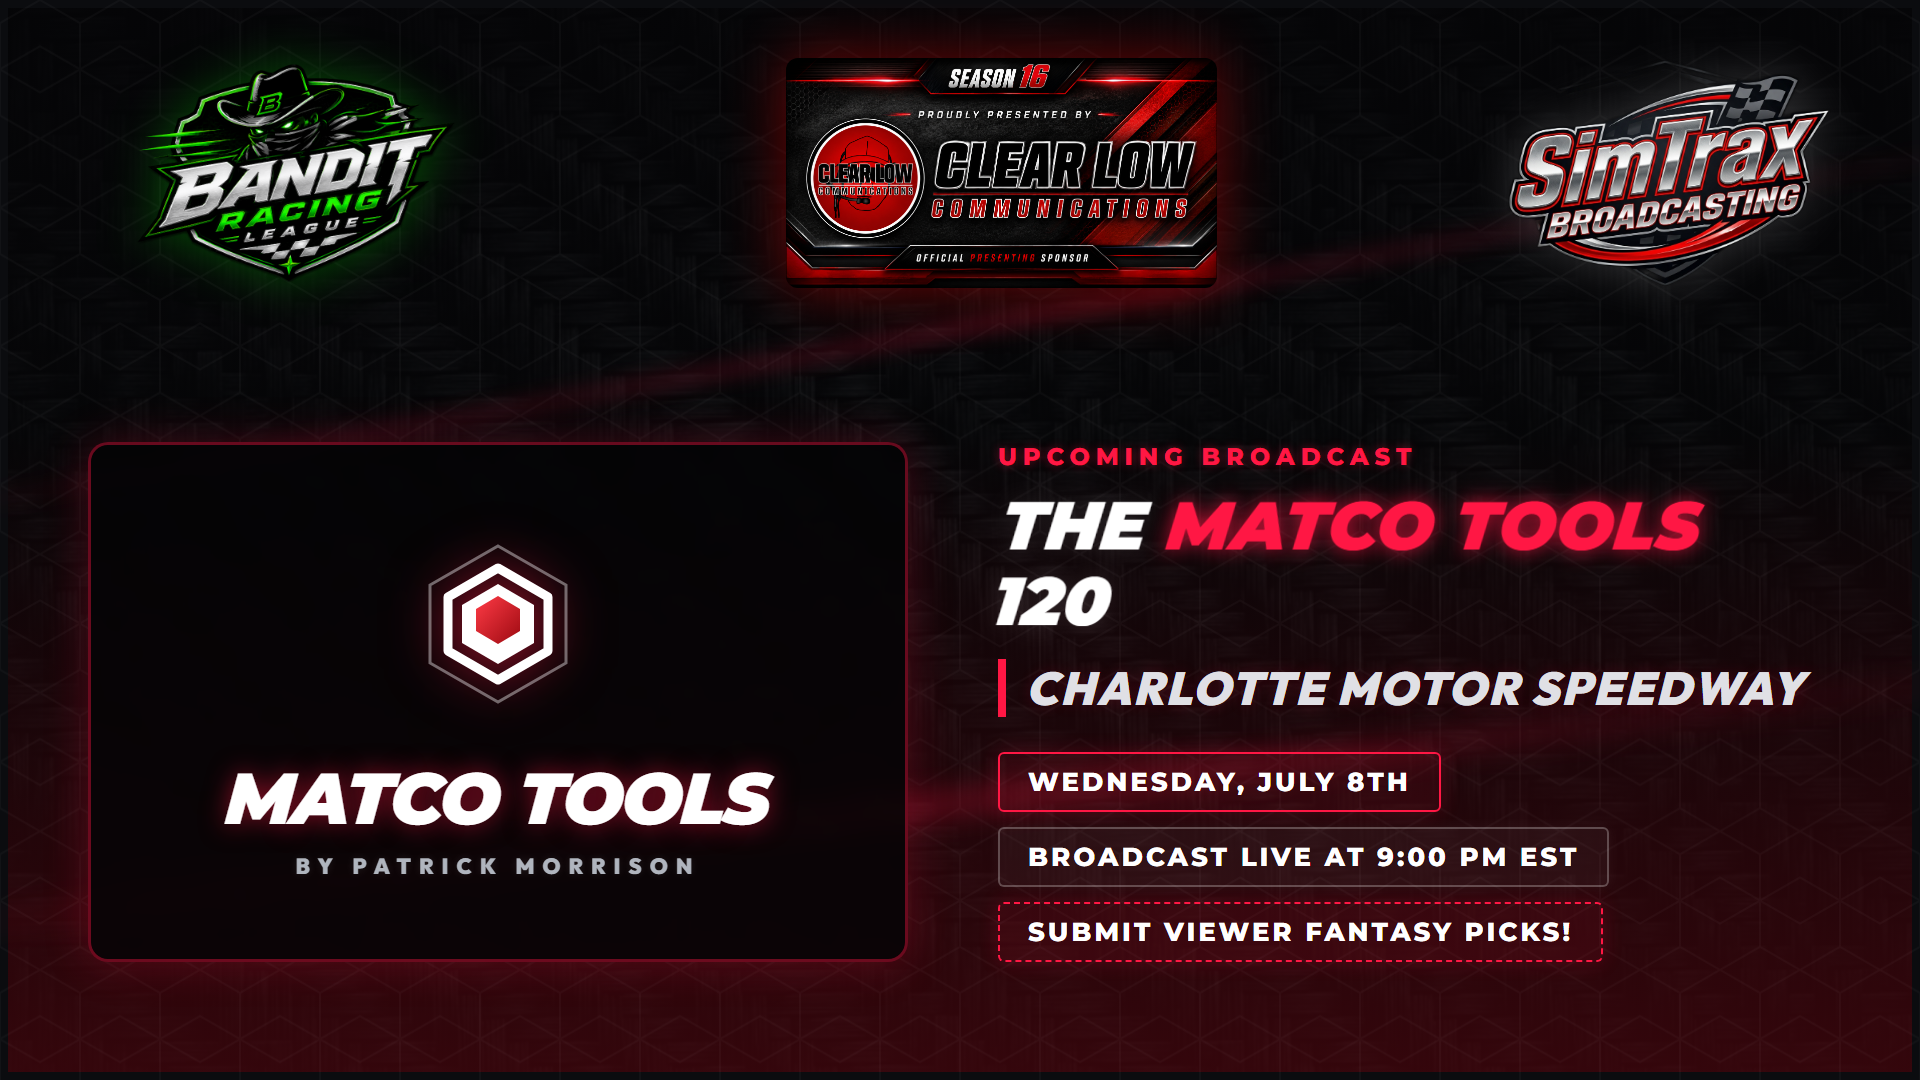
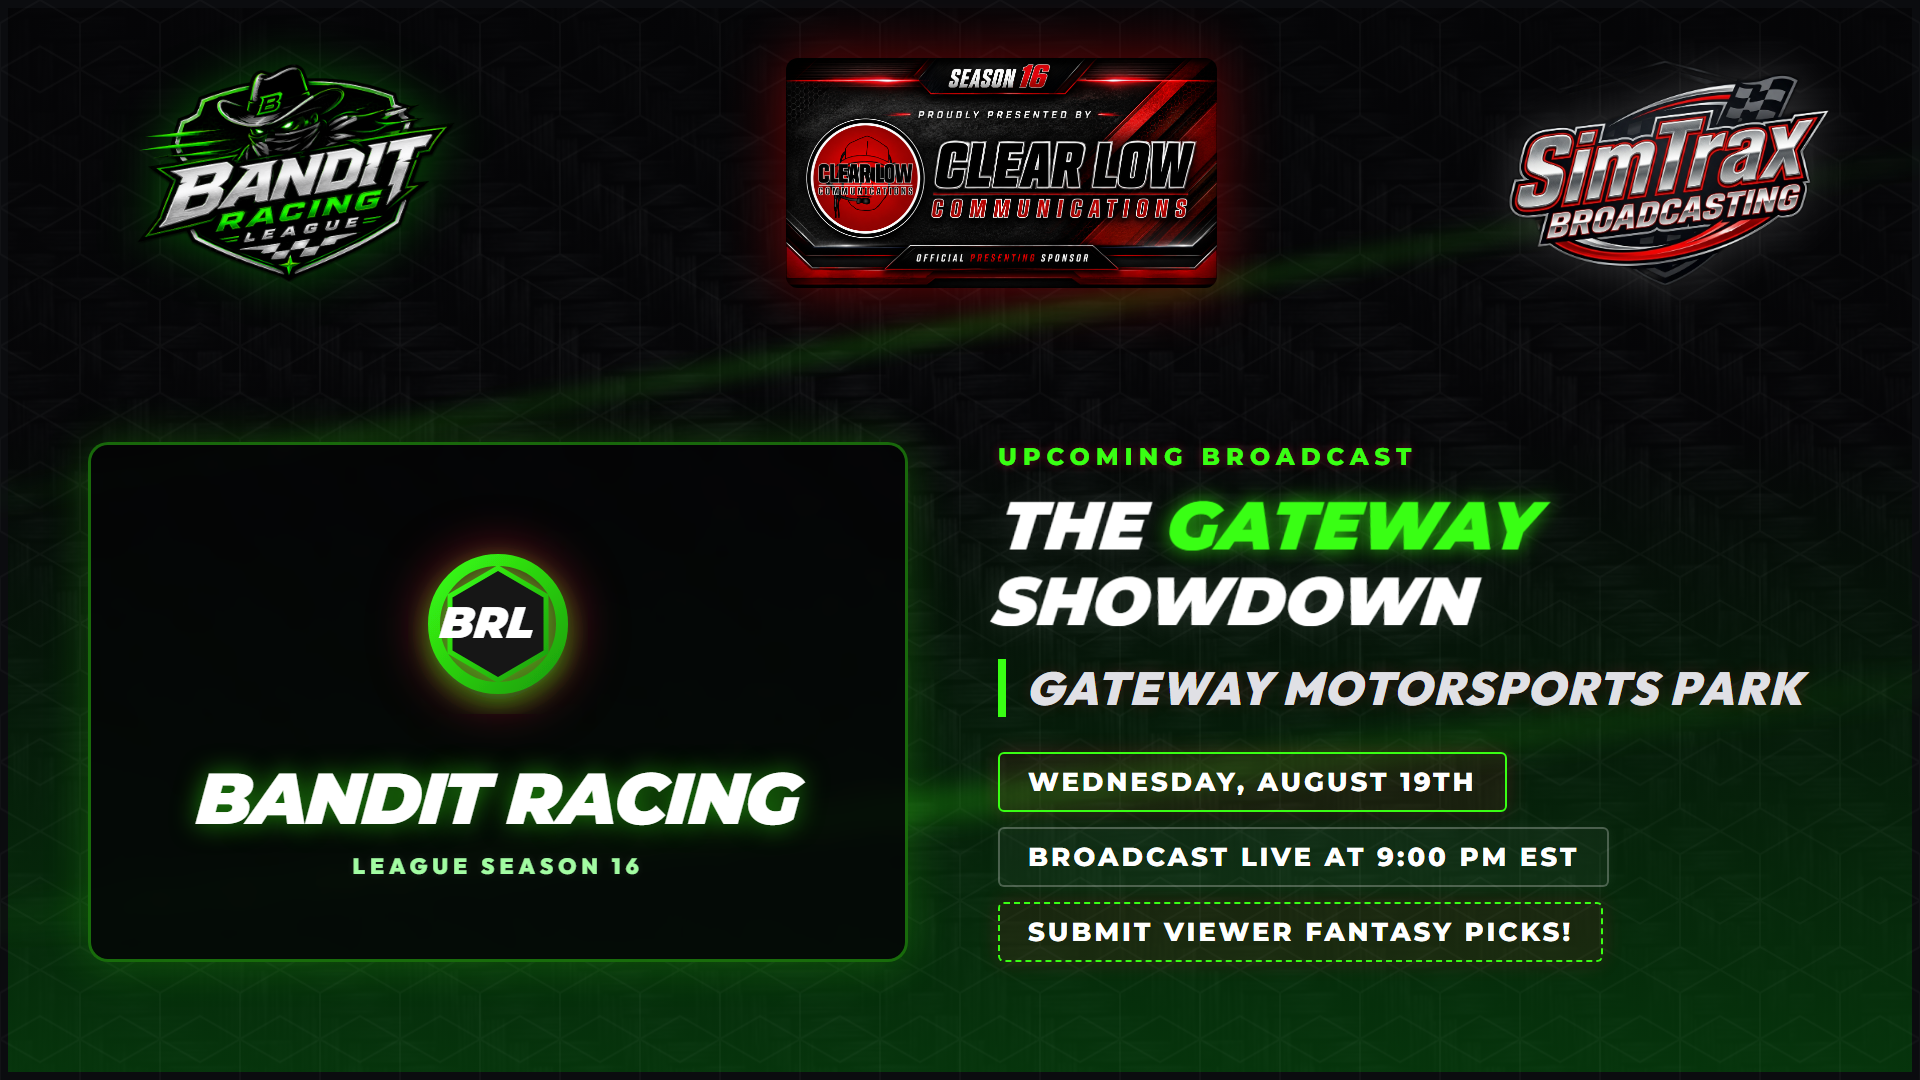
Update upcoming race preview to Gateway (August 19) with points after Michigan, and note Michigan as closest margin of victory in league history

diff --git a/upcoming_broadcast_promo.html b/upcoming_broadcast_promo.html
@@ -9,8 +9,8 @@
   <style>
     :root {
       --bg-dark: #050507;
-      --neon-red: #ff1744;
-      --glow-red: rgba(255, 23, 68, 0.7);
+      --neon-red: #39ff14;
+      --glow-red: rgba(57, 255, 20, 0.7);
       --card-bg: rgba(4, 4, 5, 0.82);
     }
 
@@ -46,7 +46,7 @@
       width: 1920px;
       height: 1080px;
       background-image: 
-        linear-gradient(to bottom, rgba(5, 5, 7, 0.96) 0%, rgba(6, 6, 8, 0.88) 40%, rgba(55, 6, 12, 0.94) 100%), 
+        linear-gradient(to bottom, rgba(5, 5, 7, 0.96) 0%, rgba(6, 6, 8, 0.88) 40%, rgba(6, 55, 12, 0.94) 100%), 
         url('assets/carbon_fiber_texture.png');
       background-size: cover;
       background-position: center;
@@ -137,8 +137,8 @@
     /* Left Side: Matco Tools Sponsor Card (Larger layout) */
     .sponsor-card {
       background: var(--card-bg);
-      border: 3.5px solid rgba(255, 23, 68, 0.4);
-      box-shadow: 0 0 45px rgba(255, 23, 68, 0.22);
+      border: 3.5px solid rgba(57, 255, 20, 0.4);
+      box-shadow: 0 0 45px rgba(57, 255, 20, 0.22);
       border-radius: 20px;
       padding: 40px;
       display: flex;
@@ -298,46 +298,37 @@
 
     <!-- Bottom Section: Race Sponsor and Information -->
     <div class="bottom-section">
-      <!-- Left: Matco Tools Sponsor Card -->
+      <!-- Left: Bandit Racing League Card -->
       <div class="sponsor-card">
-        <!-- Scaled High-fidelity SVG of the Matco Tools Hexagon Symbol -->
+        <!-- Scaled High-fidelity SVG of the BRL Checkered Flag / Shield Symbol -->
         <svg class="matco-logo-svg" viewBox="0 0 100 100" width="200" height="200" xmlns="http://www.w3.org/2000/svg">
           <defs>
-            <linearGradient id="redGradLarge" x1="0%" y1="0%" x2="100%" y2="100%">
-              <stop offset="0%" stop-color="#ff3b46" />
-              <stop offset="100%" stop-color="#9d0a11" />
+            <linearGradient id="neonGreenGrad" x1="0%" y1="0%" x2="100%" y2="100%">
+              <stop offset="0%" stop-color="#39ff14" />
+              <stop offset="100%" stop-color="#1b9d0a" />
             </linearGradient>
-            <filter id="shadowLarge" x="-25%" y="-25%" width="150%" height="150%">
-              <drop-shadow dx="0" dy="8" stdDeviation="8" flood-color="#ff1744" flood-opacity="0.5"/>
+            <filter id="neonGlow" x="-20%" y="-20%" width="140%" height="140%">
+              <feDropShadow dx="0" dy="4" stdDeviation="6" flood-color="#39ff14" flood-opacity="0.6"/>
             </filter>
           </defs>
-          <!-- Outer hexagon polygon (pointed top/bottom, flat sides) -->
-          <polygon points="50,4 91,27.5 91,72.5 50,96 9,72.5 9,27.5" fill="url(#redGradLarge)" stroke="#ffffff" stroke-width="2.5" filter="url(#shadowLarge)" />
-          
-          <!-- Inner hexagon border -->
-          <polygon points="50,11 84,30.5 84,69.5 50,89 16,69.5 16,30.5" fill="none" stroke="rgba(255,255,255,0.4)" stroke-width="1.5" />
-          
-          <!-- Stylized Hex Socket Inner Emblem -->
-          <polygon points="50,22 75,36.5 75,63.5 50,78 25,63.5 25,36.5" fill="none" stroke="#ffffff" stroke-width="4.5" stroke-linecap="round" stroke-linejoin="round" />
-          
-          <!-- Core hexagon shape -->
-          <polygon points="50,30 68,40.5 68,59.5 50,70 32,59.5 32,40.5" fill="#ffffff" />
-          
-          <!-- Accent red center notch -->
-          <polygon points="50,36 61,42.5 61,53.5 50,60 39,53.5 39,42.5" fill="url(#redGradLarge)" />
+          <g filter="url(#neonGlow)">
+            <circle cx="50" cy="50" r="32" fill="none" stroke="url(#neonGreenGrad)" stroke-width="6" />
+            <polygon points="50,22 74,36 74,64 50,78 26,64 26,36" fill="#141416" stroke="url(#neonGreenGrad)" stroke-width="2.5" />
+            <text x="50" y="57" font-family="'Montserrat', sans-serif" font-weight="900" font-style="italic" font-size="22" fill="#ffffff" text-anchor="middle" transform="skewX(-6)">BRL</text>
+          </g>
         </svg>
-        <div class="matco-text">MATCO TOOLS</div>
-        <div class="distributor-text">BY PATRICK MORRISON</div>
+        <div class="matco-text" style="color: #ffffff; text-shadow: 0 0 25px rgba(57, 255, 20, 0.5);">BANDIT RACING</div>
+        <div class="distributor-text" style="color: #a2fca2; letter-spacing: 5px;">LEAGUE SEASON 16</div>
       </div>
 
       <!-- Right: Race Details and Live Air Info -->
       <div class="details-card">
         <div class="upcoming-label">UPCOMING BROADCAST</div>
         <div class="race-title">
-          THE <span class="highlight">MATCO TOOLS</span> 120
+          THE <span class="highlight">Gateway</span> Showdown
         </div>
-        <div class="track-name">Charlotte Motor Speedway</div>
-        <div class="info-badge">Wednesday, July 8th</div>
+        <div class="track-name">Gateway Motorsports Park</div>
+        <div class="info-badge">Wednesday, August 19th</div>
         <div class="time-badge">Broadcast Live at 9:00 PM EST</div>
         <div class="fantasy-badge">Submit Viewer Fantasy Picks!</div>
       </div>

diff --git a/article_michigan_recap.html b/article_michigan_recap.html
@@ -160,10 +160,10 @@
     <section class="container">
         <div class="article-content neon-border">
             <div class="highlight-box">
-                <p><strong>Race Update:</strong> Benjamin Lacy executed a perfect drafting game plan at Michigan, holding off GFR teammate Nick Nickerson by a historic 0.0002 seconds (0.2 milliseconds) to capture the checkered flag. Dylan McDonald finished 3rd for Legacy Racing.</p>
+                <p><strong>Race Update:</strong> Benjamin Lacy executed a perfect drafting game plan at Michigan, holding off GFR teammate Nick Nickerson by a historic 0.0002 seconds (0.2 milliseconds)—the closest margin of victory in Bandit Racing League history—to capture the checkered flag. Dylan McDonald finished 3rd for Legacy Racing.</p>
             </div>
 
-            <p>Week twelve of the Bandit Racing League Season 16 brought the Craftsman Trucks to the fast and wide sweeps of <strong>Michigan International Speedway</strong>. In a race defined by intense draft packs and strategy shuffles, <strong>Benjamin Lacy</strong> piloted his GFR Chevrolet #7 to an incredible victory in one of the closest finishes in sim racing history.</p>
+            <p>Week twelve of the Bandit Racing League Season 16 brought the Craftsman Trucks to the fast and wide sweeps of <strong>Michigan International Speedway</strong>. In a race defined by intense draft packs and strategy shuffles, <strong>Benjamin Lacy</strong> piloted his GFR Chevrolet #7 to an incredible victory, securing the closest finish in the history of the league.</p>
 
             <div class="image-gallery">
                 <div class="gallery-item featured-shot">
@@ -174,7 +174,7 @@
 
             <p>The story of the first half of the race was <strong>Joshua L. Adams</strong> (937 Racing). Adams dominated early, leading a race-high 30 laps and showing impressive speed. However, late-race caution periods and strategic restarts shook up the draft pack. Under the yellow flag cycles, GFR Racing's track position strategies put them in a prime position.</p>
 
-            <p>In the closing laps, GFR teammates Benjamin Lacy and <strong>Nick Nickerson</strong> hooked up to pull away from the pack. Exiting Turn 4 on the final lap, Nickerson pulled out to make a bid for the lead. The two crossed the line side-by-side, with transponder data showing Lacy ahead by just **0.0002 seconds**—less than 3/4 of an inch!</p>
+            <p>In the closing laps, GFR teammates Benjamin Lacy and <strong>Nick Nickerson</strong> hooked up to pull away from the pack. Exiting Turn 4 on the final lap, Nickerson pulled out to make a bid for the lead. The two crossed the line side-by-side, with transponder data showing Lacy ahead by just **0.0002 seconds**—less than 3/4 of an inch—marking the closest margin of victory in Bandit Racing League history!</p>
             
             <p><strong>Dylan McDonald</strong> (Legacy Racing) finished a strong 3rd after keeping pace with the lead pack, while **Garret Bobo** (POP Motorsports) grabbed 4th. **Connor Gibson** completed the top 5 with a solid run.</p>
 

diff --git a/index.html b/index.html
@@ -218,11 +218,11 @@
                 <h2><span class="live-dot" style="background: var(--neon-green); box-shadow: 0 0 10px var(--neon-green);"></span> LATEST NEWS & ANALYSIS</h2>
             </div>
             <div class="card-body" style="display: flex; flex-direction: column; gap: 20px;">
-                <!-- Michigan Race Preview -->
+                <!-- Gateway Race Preview -->
                 <div style="padding: 20px; background-color: rgba(255,255,255,0.02); border-radius: 8px; border-left: 4px solid var(--neon-green); box-shadow: 0 0 15px rgba(57, 255, 20, 0.08);">
                     <div style="color: var(--neon-green); font-size: 0.9rem; margin-bottom: 5px; text-transform: uppercase; letter-spacing: 1px; font-weight: bold; text-shadow: 0 0 8px rgba(57, 255, 20, 0.25);">Race Preview</div>
-                    <h3 style="font-size: 1.5rem; color: var(--text-light); margin-bottom: 10px; transition: color 0.2s ease;">Drafting Chess at Michigan: GFR 150 Sets the Stage for High-Speed Showdowns</h3>
-                    <p style="color: #ccc; margin-bottom: 15px;">The Bandit Racing League heads to the ultra-fast 2-mile oval of Michigan International Speedway this Wednesday, August 12th, for Turn 8 of the championship battle! Sponsored by GFR Racing, "The GFR 150" features the Craftsman Trucks in a 100-lap high-speed drafting match. With the standings tighter than ever—championship leader Benjamin Lacy leading Scott Sanderson by just 2 points (284 vs 282)—drafting strategy and fuel mileage will be key to conquering this wide speedway. Tune in live at 9:00 PM EST on SimTrax Broadcasting!</p>
+                    <h3 style="font-size: 1.5rem; color: var(--text-light); margin-bottom: 10px; transition: color 0.2s ease;">Short Track Showdown at Gateway: Standings Shuffle after Michigan Photo Finish</h3>
+                    <p style="color: #ccc; margin-bottom: 15px;">The Bandit Racing League heads to the short-track action of World Wide Technology Raceway (Gateway) this Wednesday, August 19th, for Turn 9 of the championship battle! Following a historic, closest-ever 0.2ms finish at Michigan, championship leader Benjamin I Lacy (334 pts) now holds a 21-point lead over Scott Sanderson (313 pts). Turn 9 brings the Craftsman Trucks to the unique 1.25-mile oval, where turns 1-2 and 3-4 feature completely different shapes and banking. With only 1 Fast Repair and Stage breaks, track position will be critical. Tune in live at 9:00 PM EST on SimTrax Broadcasting!</p>
                     
                     <img src="assets/brl_upcoming_broadcast.png" alt="Upcoming Race Preview" style="width: 100%; max-width: 100%; border-radius: 6px; margin-top: 15px; margin-bottom: 15px; border: 1.5px solid rgba(57, 255, 20, 0.3); box-shadow: 0 0 15px rgba(57, 255, 20, 0.15);">
                     

diff --git a/schedule.html b/schedule.html
@@ -62,9 +62,18 @@
         </div>
     </nav>
 
+    <!-- Upcoming Broadcast Preview Section -->
+    <section class="container" style="margin-top: 40px; margin-bottom: 20px;">
+        <div style="text-align: center; margin-bottom: 30px;">
+            <h2 style="font-family: var(--font-heading); text-transform: uppercase; letter-spacing: 2px; color: var(--neon-green); margin-bottom: 15px;">Upcoming Race Broadcast</h2>
+            <img src="assets/brl_upcoming_broadcast.png" alt="Upcoming Race Preview" style="max-width: 100%; height: auto; border-radius: 8px; box-shadow: 0 4px 15px rgba(57, 255, 20, 0.3); border: 1.5px solid rgba(57, 255, 20, 0.3);">
+        </div>
+    </section>
+
     <!-- Schedule Section -->
-    <section class="container" style="margin-top: 40px; margin-bottom: 60px;">
+    <section class="container" style="margin-bottom: 60px;">
         <div style="text-align: center;">
+            <h2 style="font-family: var(--font-heading); text-transform: uppercase; letter-spacing: 2px; color: #ffffff; margin-bottom: 15px;">Season 16 Schedule</h2>
             <img src="assets/season16-promo.jpg" alt="Season 16 Schedule" style="max-width: 100%; height: auto; border-radius: 8px; box-shadow: 0 4px 15px rgba(153, 255, 51, 0.4);" onerror="this.onerror=null; this.outerHTML='<div style=\'padding: 20px; border: 2px dashed #99ff33; color: #fff;\'>Save your promo image to assets/season16-promo.jpg to display it here!</div>'">
         </div>
     </section>

diff --git a/generate_upcoming_race_preview.py b/generate_upcoming_race_preview.py
@@ -58,43 +58,43 @@ def copy_to_clipboard(text):
 
 def main():
     print("=" * 60)
-    print("        BRL RICHMOND RACE PROMOTION POST GENERATOR")
+    print("        BRL GATEWAY RACE PROMOTION POST GENERATOR")
     print("=" * 60)
     
-    post_text = """🏁 **BANDIT RACING LEAGUE - RICHMOND PREVIEW** 🏁
+    post_text = """🏁 **BANDIT RACING LEAGUE - GATEWAY PREVIEW** 🏁
 📺 Live Broadcast: SimTrax Broadcasting
-🛠 Sponsor: Richmond Short Track Showdown
+🛠 Sponsor: Gateway Short Track Showdown
 
-The battle heats up on the short track! This Wednesday, August 5th, the Bandit Racing League returns to action for Turn 7 at Richmond Raceway! 🏆
+The battle heats up on the short track! This Wednesday, August 19th, the Bandit Racing League returns to action for Turn 9 at Gateway (World Wide Technology Raceway)! 🏆
 
-We are headed to the challenging 0.75-mile D-shaped short track for 160 laps of close-quarters racing under the lights in the Craftsman Trucks—and the championship chase is tighter than ever.
+We are headed to the challenging 1.25-mile oval for 160 laps of close-quarters racing under the lights in the Craftsman Trucks—and the championship chase is entering its final stages.
 
 🔥 **CHAMPIONSHIP STANDINGS SHUFFLE!** 🔥
-After the high-speed draft battles at Pocono, the driver standings have been completely shaken up:
-🥇 Benjamin I Lacy — 229 pts
-🥈 Scott Sanderson — 228 pts
-🥉 Kevin Foster — 216 pts
-4. Dylan McDonald — 211 pts
-5. Johnathon Platt — 200 pts
+Following the historic, closest-ever 0.2ms finish at Michigan, the standings have tightened up:
+🥇 Benjamin I Lacy — 334 pts
+🥈 Scott Sanderson — 313 pts
+🥉 Kevin Foster — 285 pts
+4. Joshua L Adams — 273 pts
+5. Dylan McDonald — 271 pts
 
-Only one point separates Benjamin Lacy and Scott Sanderson at the top, while Pocono winner Kevin Foster is charging hard in 3rd place!
+With Benjamin Lacy holding a 21-point lead over Scott Sanderson at the top, the fight for the crown is entering a critical phase!
 
-Richmond is a technical driver's track where restarts are chaotic, track position is king, and tyre wear will be severe. With only 1 Fast Repair and Stage breaks on the horizon, one single mistake can derail a driver's championship hopes!
+Gateway is a unique driver's track where turns 1-2 and turns 3-4 feature completely different banking and radii, requiring a compromised setup and precise driving. With only 1 Fast Repair and Stage breaks on the horizon, one single mistake can derail a driver's championship hopes!
 
 🔮 **VIEWER FANTASY CHALLENGE - FREE TO PLAY!** 🔮
 Don't forget to head over to the fantasy league to place your picks for this week's race! Pick your team of 4 drivers before the green flag drops.
 👉 Submit your picks here: https://banditracingleague.net/fantasy.html
 
 🗓 **RACE DETAILS** 🗓
-📍 Track: Richmond Raceway
+📍 Track: Gateway Motorsports Park
 🏁 Distance: 160 Laps (Craftsman Trucks)
-📅 Date: Wednesday, August 5th
+📅 Date: Wednesday, August 19th
 ⏰ Time: 9:00 PM EST
 📺 Broadcast: Live on SimTrax Broadcasting
 
-Who is your pick to conquer the Richmond short track? Let us know in the comments! 👇
+Who is your pick to conquer Gateway? Let us know in the comments! 👇
 
-#BanditRacingLeague #iRacing #Esports #SimRacing #NASCAR #CraftsmanTrucks #RichmondRaceway #ChampionshipChase"""
+#BanditRacingLeague #iRacing #Esports #SimRacing #NASCAR #CraftsmanTrucks #Gateway #ChampionshipChase"""
 
     print("\n" + "-" * 50)
     print("GENERATED SOCIAL POST:")
